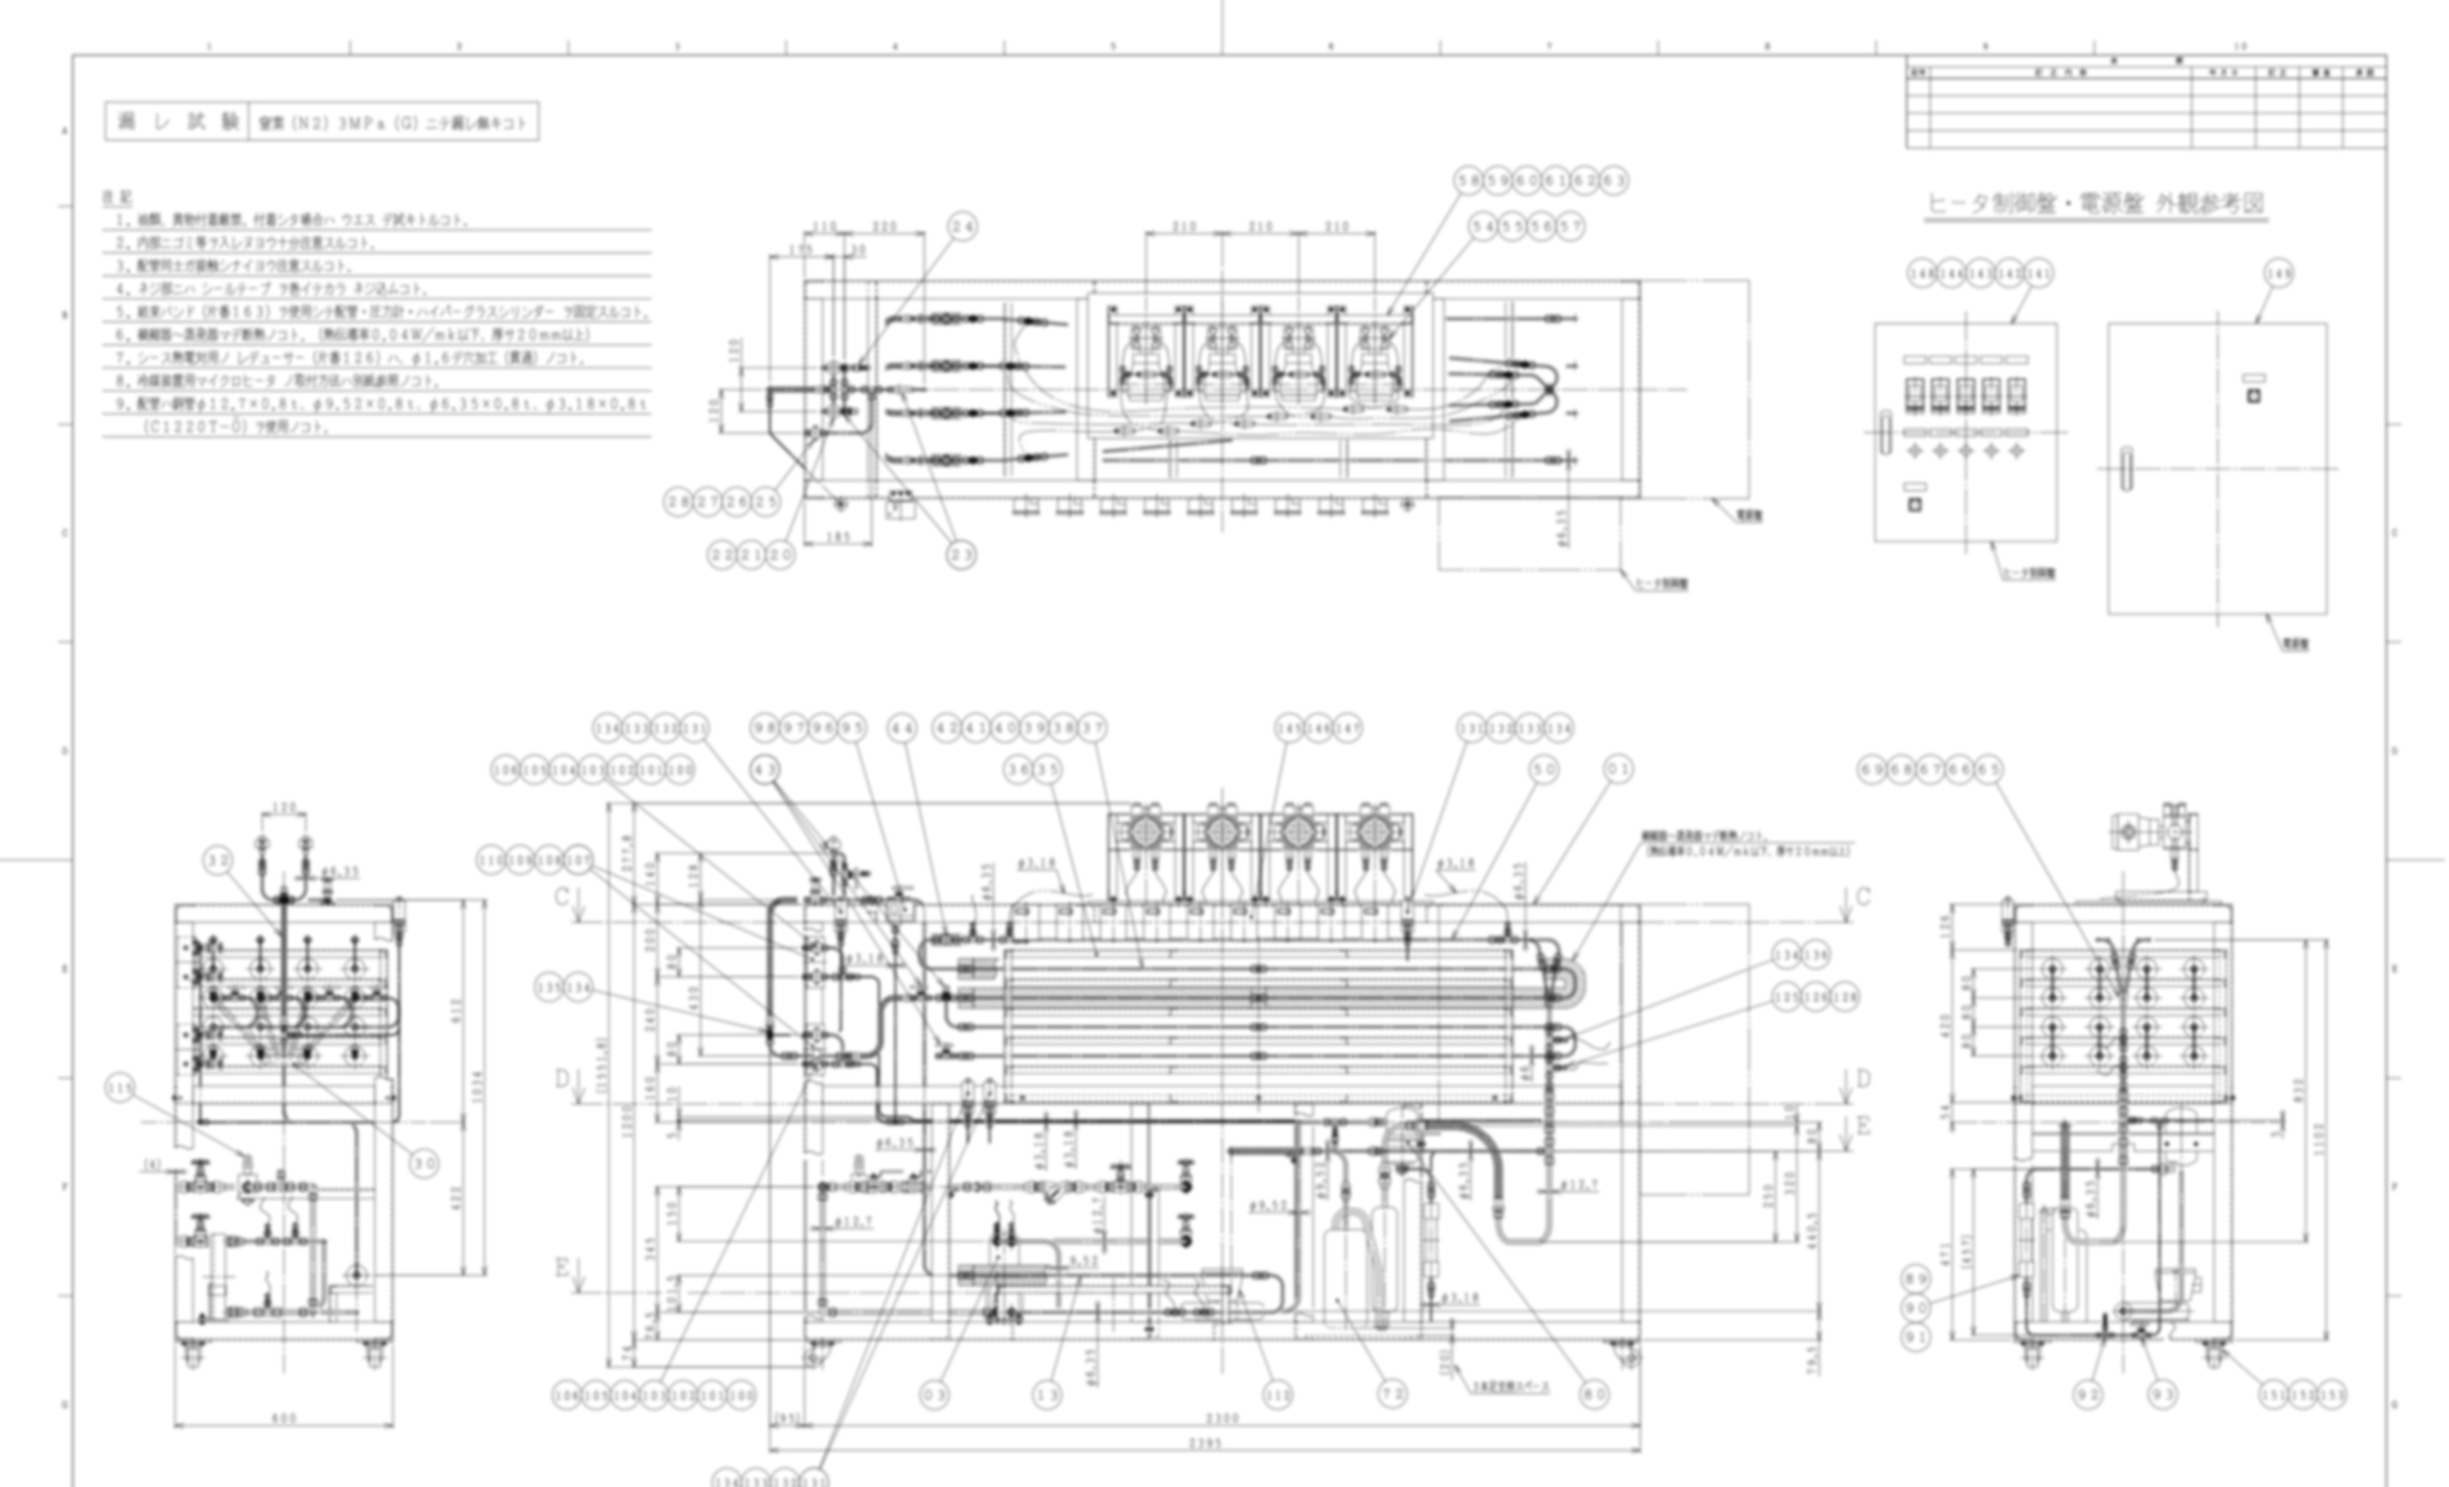
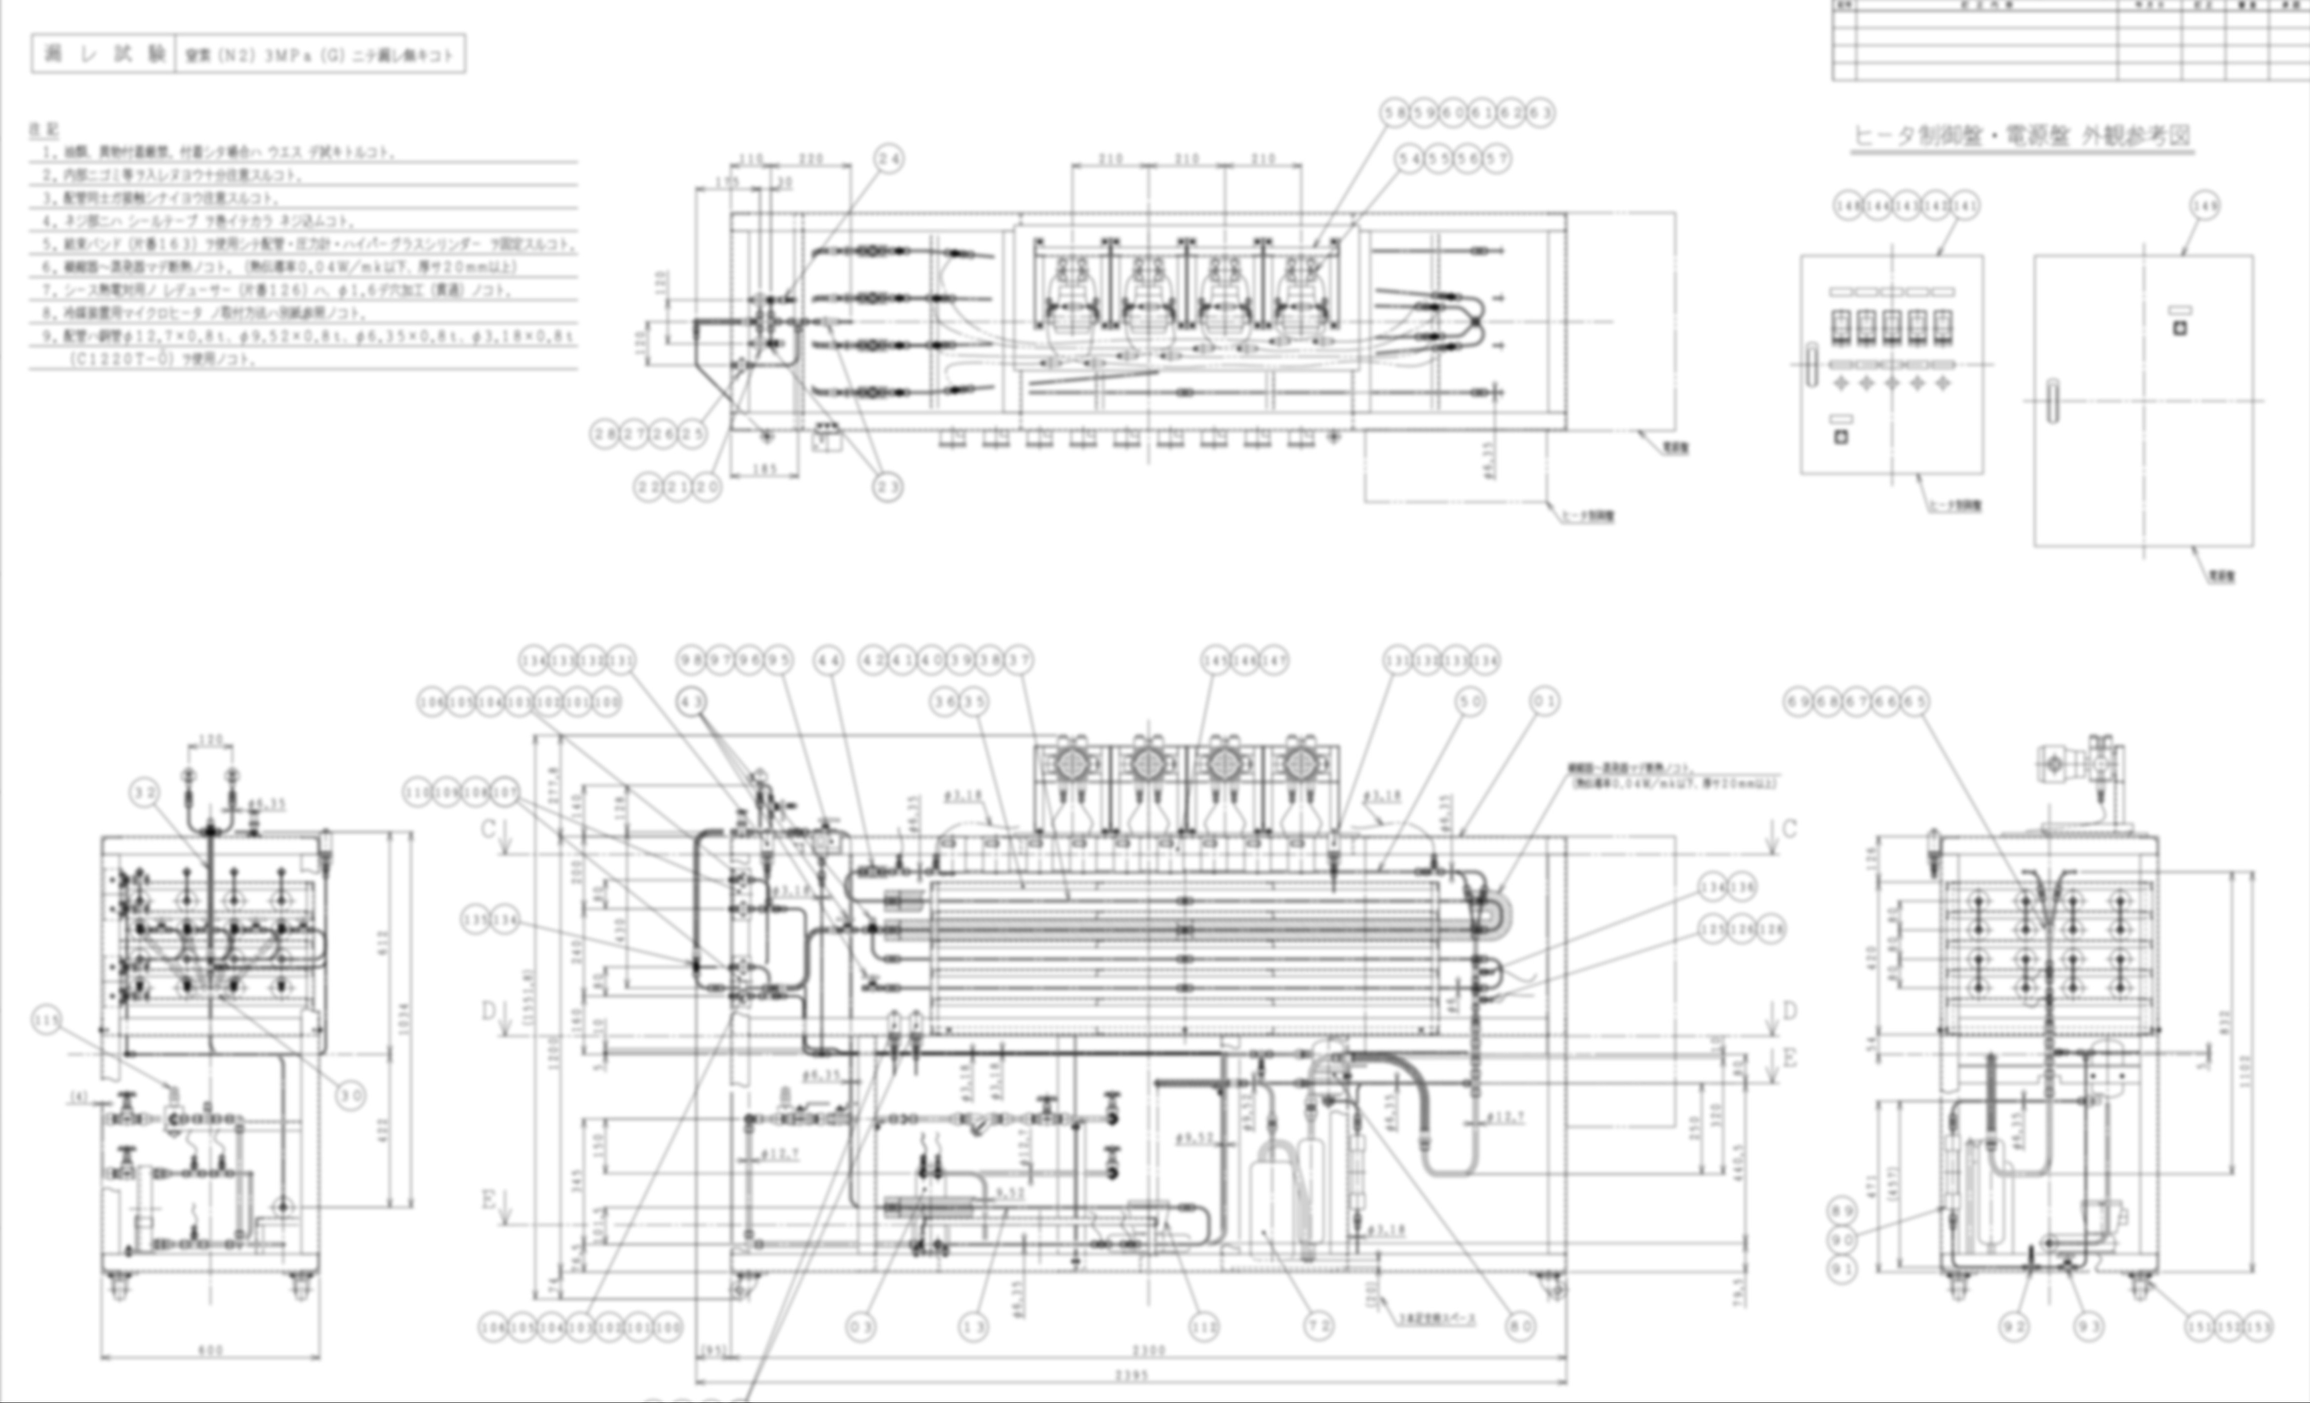
Replace reference drawing images

diff --git a/index.html b/index.html
@@ -1275,40 +1275,40 @@
 
                     <!-- スライド例：実際の画像を入れてください -->
                     <div class="slide active">
-                        <img src="assets/images/ref1.jpg" alt="参考図面1（NDA処理済）" loading="lazy">
+                        <img src="assets/images/ref1.jpg?v=20260623" alt="参考図面1（NDA処理済）" loading="lazy">
                     </div>
                     <div class="slide">
-                        <img src="assets/images/ref2.jpg" alt="参考図面2（NDA処理済）" loading="lazy">
+                        <img src="assets/images/ref2.jpg?v=20260623" alt="参考図面2（NDA処理済）" loading="lazy">
                     </div>
                     <div class="slide">
-                        <img src="assets/images/ref3.jpg" alt="参考図面3（NDA処理済）" loading="lazy">
+                        <img src="assets/images/ref3.jpg?v=20260623" alt="参考図面3（NDA処理済）" loading="lazy">
                     </div>
                     <div class="slide">
-                        <img src="assets/images/ref4.jpg" alt="参考図面4（NDA処理済）" loading="lazy">
+                        <img src="assets/images/ref4.jpg?v=20260623" alt="参考図面4（NDA処理済）" loading="lazy">
                     </div>
                     <div class="slide">
-                        <img src="assets/images/ref5.jpg" alt="参考図面5（NDA処理済）" loading="lazy">
+                        <img src="assets/images/ref5.jpg?v=20260623" alt="参考図面5（NDA処理済）" loading="lazy">
                     </div>
                     <div class="slide">
-                        <img src="assets/images/ref6c.jpg" alt="参考図面6（NDA処理済）" loading="lazy">
+                        <img src="assets/images/ref6c.jpg?v=20260623" alt="参考図面6（NDA処理済）" loading="lazy">
                     </div>
                     <div class="slide">
-                        <img src="assets/images/ref7c.jpg" alt="参考図面7（NDA処理済）" loading="lazy">
+                        <img src="assets/images/ref7c.jpg?v=20260623" alt="参考図面7（NDA処理済）" loading="lazy">
                     </div>
                     <div class="slide">
-                        <img src="assets/images/ref8c.jpg" alt="参考図面8（NDA処理済）" loading="lazy">
+                        <img src="assets/images/ref8c.jpg?v=20260623" alt="参考図面8（NDA処理済）" loading="lazy">
                     </div>
                     <div class="slide">
-                        <img src="assets/images/ref9.jpg" alt="参考図面9（NDA処理済）" loading="lazy">
+                        <img src="assets/images/ref9.jpg?v=20260623" alt="参考図面9（NDA処理済）" loading="lazy">
                     </div>
                     <div class="slide">
-                        <img src="assets/images/ref10.jpg" alt="参考図面10（NDA処理済）" loading="lazy">
+                        <img src="assets/images/ref10.jpg?v=20260623" alt="参考図面10（NDA処理済）" loading="lazy">
                     </div>
                     <div class="slide">
-                        <img src="assets/images/ref11.jpg" alt="参考図面11（NDA処理済）" loading="lazy">
+                        <img src="assets/images/ref11.jpg?v=20260623" alt="参考図面11（NDA処理済）" loading="lazy">
                     </div>
                     <div class="slide">
-                        <img src="assets/images/ref12.jpg" alt="参考図面12（NDA処理済）" loading="lazy">
+                        <img src="assets/images/ref12.jpg?v=20260623" alt="参考図面12（NDA処理済）" loading="lazy">
                     </div>
 
                     <!-- コントロールボタン -->
